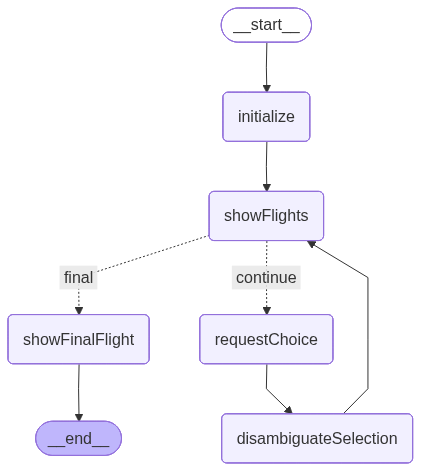
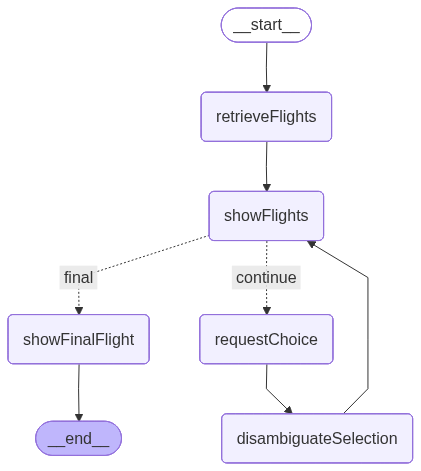
chages

Changed region(s): [[0.4632, 0.1783, 0.8029, 0.2972], [0.7411, 0.2972, 0.772, 0.327], [0.4941, 0.2972, 0.5249, 0.327]]

diff --git a/main.ts b/main.ts
@@ -42,9 +42,9 @@ const SupportState = Annotation.Root({
   userChoice: Annotation<string>(),
 });
 
-// Node 1: Initialize - Retrieve ALL flights from Elasticsearch
-async function initialize(state: typeof SupportState.State) {
-  const results = await vectorStore.similaritySearch(state.input, 10);
+// Node 1: Retrieve flights from Elasticsearch
+async function retrieveFlights(state: typeof SupportState.State) {
+  const results = await vectorStore.similaritySearch(state.input, 10); // Retrieve top 10 similar flights
   const filteredFlights = results.map((d) => d as Document);
 
   console.log(`📋 Retrieved ${filteredFlights.length} flights from database\n`);
@@ -56,22 +56,17 @@ function showFlights(state: typeof SupportState.State) {
   const flights = state.filteredFlights || [];
 
   // Check if we've narrowed down to exactly one flight
-  if (flights.length === 1) {
-    console.log("\n✅ Found unique flight!");
-    return { filteredFlights: flights };
-  }
+  if (flights.length === 1) return { filteredFlights: flights };
 
   console.log("Available flights:\n");
   for (let i = 0; i < flights.length; i++) {
     const flight = flights[i];
     const m = flight.metadata;
-    console.log(`${i + 1}. ${m.title} - ${m.airline}`);
-    console.log(
-      `   From: ${m.from_city} → To: ${m.to_city}, ${m.country} (${m.airport_name})`
-    );
-    console.log(
-      `   Price: $${m.price} | Duration: ${m.time_approx} | Date: ${m.date}\n`
-    );
+
+    console.log(`${i + 1}. ${m.title} - ${m.airline}
+      From: ${m.from_city} → To: ${m.to_city}, ${m.country} (${m.airport_name})
+      Price: $${m.price} | Duration: ${m.time_approx} | Date: ${m.date}\n
+    `);
   }
 
   return { filteredFlights: flights };
@@ -79,9 +74,9 @@ function showFlights(state: typeof SupportState.State) {
 
 // Node 3: Request user refinement
 function requestChoice(state: typeof SupportState.State) {
-  const question =
-    "Refine your search (e.g., 'I want flights to Japan', 'Show me the cheapest', or select by number):";
+  const question = "👤 Pick one alternative:";
   const userChoice = interrupt({ question });
+
   return { userChoice };
 }
 
@@ -89,17 +84,6 @@ function requestChoice(state: typeof SupportState.State) {
 async function disambiguateSelection(state: typeof SupportState.State) {
   const flights = state.filteredFlights || [];
   const userInput = state.userChoice || "";
-
-  // Check if user selected by number
-  const numberRegex = /^\d+$/;
-  const numberMatch = numberRegex.exec(userInput);
-  if (numberMatch) {
-    const selectedIndex = Number.parseInt(userInput, 10) - 1;
-    if (selectedIndex >= 0 && selectedIndex < flights.length) {
-      console.log(`✅ Selected flight #${userInput}`);
-      return { filteredFlights: [flights[selectedIndex]] };
-    }
-  }
 
   // Use LLM to interpret natural language refinement
   const flightsList = flights
@@ -169,15 +153,15 @@ function showFinalFlight(state: typeof SupportState.State) {
   return {};
 }
 
-// Build the circular workflow graph
+// Build the workflow graph
 const workflow = new StateGraph(SupportState)
-  .addNode("initialize", initialize)
+  .addNode("retrieveFlights", retrieveFlights)
   .addNode("showFlights", showFlights)
   .addNode("requestChoice", requestChoice)
   .addNode("disambiguateSelection", disambiguateSelection)
   .addNode("showFinalFlight", showFinalFlight)
-  .addEdge("__start__", "initialize")
-  .addEdge("initialize", "showFlights")
+  .addEdge("__start__", "retrieveFlights")
+  .addEdge("retrieveFlights", "showFlights")
   .addConditionalEdges(
     "showFlights",
     (state: typeof SupportState.State) => {
@@ -237,18 +221,16 @@ async function saveGraphImage(app: any): Promise<void> {
  * Main execution function
  */
 async function main() {
-  // Ingest data
   await ingestData();
 
   // Compile workflow
   const app = workflow.compile({ checkpointer: new MemorySaver() });
   const config = { configurable: { thread_id: "hitl-circular-thread" } };
 
-  // Save graph image
   await saveGraphImage(app);
 
   // Execute workflow
-  const question = "Flights to Asia"; // User query
+  const question = "Flights to Asia"; // User request
   console.log(`🔍 SEARCHING USER QUESTION: "${question}"\n`);
 
   let currentState = await app.invoke({ input: question }, config);
@@ -256,7 +238,12 @@ async function main() {
   // Handle all interruptions in a loop
   while ((currentState as any).__interrupt__?.length > 0) {
     console.log("\n💭 APPLICATION PAUSED WAITING FOR USER INPUT...");
-    const userChoice = await getUserInput("👤 CHOICE ONE OPTION: ");
+
+    const interruptQuestion = (currentState as any).__interrupt__[0]?.value
+      ?.question;
+    const userChoice = await getUserInput(
+      interruptQuestion || "👤 YOUR CHOICE: "
+    );
 
     currentState = await app.invoke(
       new Command({ resume: userChoice }),

diff --git a/workflow-result.md b/workflow-result.md
@@ -1,0 +1,130 @@
+# Flight Search Workflow Results
+
+## Initialization
+
+```
+CREATING VECTOR INDEX...
+INGESTING DATASET...
+```
+
+✅ Successfully ingested 22 documents
+
+📊 Workflow graph saved as: `./workflow_graph.png`
+
+---
+
+## Search Query
+
+🔍 **SEARCHING USER QUESTION:** "Flights to Asia"
+
+📋 Retrieved 10 flights from database
+
+### Available flights:
+
+1. **MDE → KIX (AndeanSky) - AndeanSky**  
+   From: Medellín → To: Osaka, Japan (Kansai International)  
+   Price: $1350 | Duration: 24h 15m | Date: 2025-11-08
+
+2. **MDE → SIN (CoffeeAir) - CoffeeAir**  
+   From: Medellín → To: Singapore, Singapore (Changi Airport)  
+   Price: $1520 | Duration: 27h 45m | Date: 2025-11-25
+
+3. **MDE → PVG (AndeanSky) - AndeanSky**  
+   From: Medellín → To: Shanghai, China (Pudong International)  
+   Price: $1450 | Duration: 25h 50m | Date: 2025-11-28
+
+4. **MDE → UKY (CoffeeAir) - CoffeeAir**  
+   From: Medellín → To: Kyoto, Japan (Kyoto Airport)  
+   Price: $1320 | Duration: 23h 45m | Date: 2025-11-12
+
+5. **MDE → BKK (CondorJet) - CondorJet**  
+   From: Medellín → To: Bangkok, Thailand (Suvarnabhumi)  
+   Price: $1480 | Duration: 26h 30m | Date: 2025-11-22
+
+6. **MDE → CTS (CondorJet) - CondorJet**  
+   From: Medellín → To: Sapporo, Japan (New Chitose Airport)  
+   Price: $1450 | Duration: 26h 10m | Date: 2025-11-20
+
+7. **MDE → NRT (CaribeWings) - CaribeWings**  
+   From: Medellín → To: Tokyo, Japan (Narita)  
+   Price: $1215 | Duration: 23h 30m | Date: 2025-11-05
+
+8. **MDE → ICN (CoffeeAir) - CoffeeAir**  
+   From: Medellín → To: Seoul, South Korea (Incheon International)  
+   Price: $1380 | Duration: 24h 40m | Date: 2025-11-18
+
+9. **MDE → BOM (CoffeeAir) - CoffeeAir**  
+   From: Medellín → To: Mumbai, India (Chhatrapati Shivaji Maharaj International)  
+   Price: $1550 | Duration: 28h 20m | Date: 2025-12-05
+
+10. **MDE → HND (CondorJet) - CondorJet**  
+    From: Medellín → To: Tokyo, Japan (Haneda)  
+    Price: $1290 | Duration: 22h 10m | Date: 2025-11-05
+
+---
+
+### 💭 APPLICATION PAUSED WAITING FOR USER INPUT...
+
+> 👤 **YOUR CHOICE:** I'm looking for flights to Japan    
+
+✅ Filtered to 5 flight(s)
+
+### Available flights:
+
+1. **MDE → KIX (AndeanSky) - AndeanSky**  
+   From: Medellín → To: Osaka, Japan (Kansai International)  
+   Price: $1350 | Duration: 24h 15m | Date: 2025-11-08
+
+2. **MDE → UKY (CoffeeAir) - CoffeeAir**  
+   From: Medellín → To: Kyoto, Japan (Kyoto Airport)  
+   Price: $1320 | Duration: 23h 45m | Date: 2025-11-12
+
+3. **MDE → CTS (CondorJet) - CondorJet**  
+   From: Medellín → To: Sapporo, Japan (New Chitose Airport)  
+   Price: $1450 | Duration: 26h 10m | Date: 2025-11-20
+
+4. **MDE → NRT (CaribeWings) - CaribeWings**  
+   From: Medellín → To: Tokyo, Japan (Narita)  
+   Price: $1215 | Duration: 23h 30m | Date: 2025-11-05
+
+5. **MDE → HND (CondorJet) - CondorJet**  
+   From: Medellín → To: Tokyo, Japan (Haneda)  
+   Price: $1290 | Duration: 22h 10m | Date: 2025-11-05
+
+---
+
+### 💭 APPLICATION PAUSED WAITING FOR USER INPUT...
+
+> 👤 **YOUR CHOICE:** Show me only the Tokyo options
+✅ Filtered to 2 flight(s)
+
+### Available flights:
+
+1. **MDE → NRT (CaribeWings) - CaribeWings**  
+   From: Medellín → To: Tokyo, Japan (Narita)  
+   Price: $1215 | Duration: 23h 30m | Date: 2025-11-05
+
+2. **MDE → HND (CondorJet) - CondorJet**  
+   From: Medellín → To: Tokyo, Japan (Haneda)  
+   Price: $1290 | Duration: 22h 10m | Date: 2025-11-05
+
+---
+
+### 💭 APPLICATION PAUSED WAITING FOR USER INPUT...
+
+> 👤 **YOUR CHOICE:** I'll take the Haneda flight
+✅ Filtered to 1 flight(s)
+
+---
+
+## ✅ Final Result
+
+**Selected flight:** MDE → HND (CondorJet) - CondorJet
+
+- **From:** Medellín (MED)
+- **To:** Tokyo (HND)
+- **Airport:** Haneda
+- **Price:** $1290
+- **Duration:** 22h 10m
+- **Date:** 2025-11-05
+  
